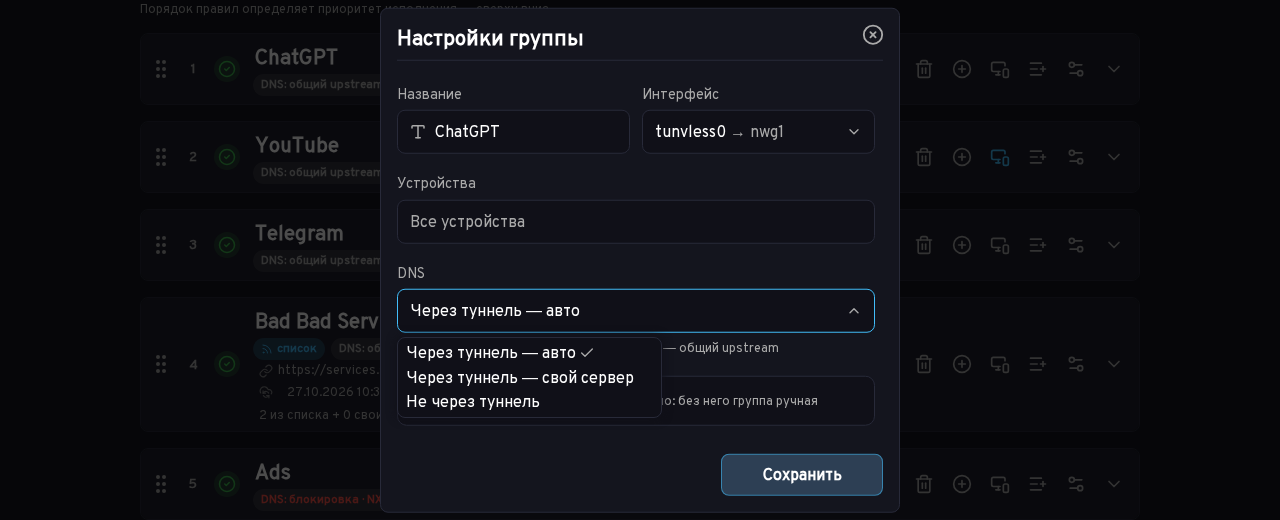
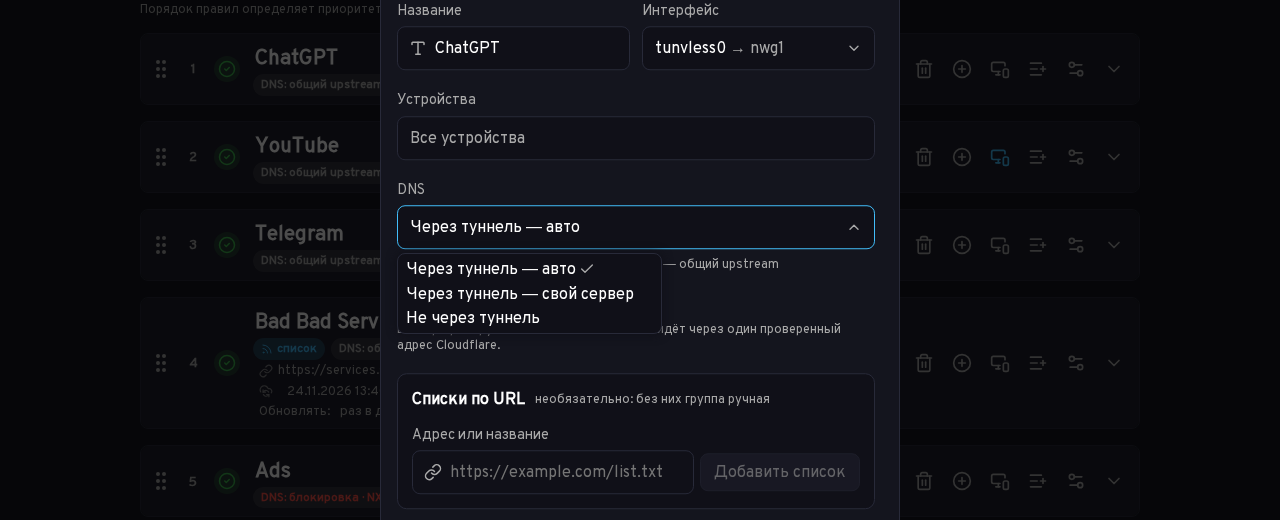
docs: several lists per group, failback and address entries

diff --git a/scripts/screens.ts b/scripts/screens.ts
@@ -180,8 +180,6 @@ const group = (page: Page, name: string) =>
   await page.keyboard.press("Escape");
   await settle(page);
 
-  await element(group(page, "Bad Bad Services"), "list-group.png", 12);
-
   const ads = group(page, "Ads");
   await ads.scrollIntoViewIfNeeded();
   await ads.locator(".block-answer").first().click();
@@ -212,13 +210,23 @@ const group = (page: Page, name: string) =>
 
   await group(page, "ChatGPT").getByRole("button", { name: "Настройки группы" }).click();
   await settle(page);
-  await element(page.locator("[role=dialog]").last(), "group-settings.png", 16);
   await page.getByRole("button", { name: "DNS", exact: true }).click();
   await settle(page);
   await shot(page, "group-dns.png", { x: 0, y: 140, width: 1280, height: 520 });
   await page.keyboard.press("Escape");
   await settle(page);
+  await page.setViewportSize({ width: 1280, height: 1100 });
+  await settle(page);
+  const sd = page.locator("[role=dialog]").last();
+  for (const u of ["https://lists.example.invalid/ads.srs", "https://lists.example.invalid/trackers.txt"]) {
+    await sd.locator("#gd-url").fill(u);
+    await sd.getByRole("button", { name: "Добавить список" }).click();
+    await settle(page);
+  }
+  await element(sd, "group-settings.png", 16);
   await page.keyboard.press("Escape");
+  await settle(page);
+  await page.setViewportSize({ width: 1280, height: 800 });
   await settle(page);
 
   await group(page, "YouTube").getByRole("button", { name: /^\d+ устройств/ }).click();
@@ -236,34 +244,37 @@ const group = (page: Page, name: string) =>
   await page.getByRole("button", { name: "Отмена" }).last().click();
   await settle(page);
 
+  await page.setViewportSize({ width: 1280, height: 1500 });
   await page.getByRole("button", { name: "Добавить группу" }).click();
   await settle(page);
   const nd = page.locator("[role=dialog]").last();
   await nd.locator("#gd-name").fill("Реклама");
-  await nd.getByRole("switch", { name: "Список по URL" }).click();
-  await settle(page);
-  await nd.locator("#gd-url").fill("https://lists.example.invalid/ads.srs");
+  for (const u of ["https://lists.example.invalid/ads.srs", "https://lists.example.invalid/trackers.txt"]) {
+    await nd.locator("#gd-url").fill(u);
+    await nd.getByRole("button", { name: "Добавить список" }).click();
+    await settle(page);
+  }
   for (let i = 0; i < 12; i++) {
-    await nd.getByRole("button", { name: "Предпросмотр" }).click();
+    await nd.getByRole("button", { name: "Предпросмотр" }).first().click();
     await settle(page, 1200);
     const text = await nd.innerText();
-    if (!text.includes("fetch failed") && !text.includes("нет ничего") && !text.includes("answered 404")) break;
+    if (!text.includes("answered 404") && !text.includes("нет ничего")) break;
   }
   await nd.getByText("Строки, не являющиеся правилами", { exact: false }).scrollIntoViewIfNeeded().catch(() => {});
   await element(nd, "list-dialog.png", 16);
   await page.keyboard.press("Escape");
   await settle(page);
+  await page.setViewportSize({ width: 1280, height: 800 });
+  await settle(page);
 
   await page.getByRole("button", { name: "Добавить группу" }).click();
   await settle(page);
   const cd = page.locator("[role=dialog]").last();
-  await cd.getByRole("switch", { name: "Список по URL" }).click();
-  await settle(page);
   await cd.locator("#gd-url").fill("youtube");
   await page.getByText("sagernet", { exact: true }).first().waitFor({ timeout: 10000 });
   await settle(page, 800);
   const cdb = (await cd.boundingBox())!;
-  const sw = (await cd.getByRole("switch", { name: "Список по URL" }).boundingBox())!;
+  const sw = (await cd.getByText("Списки по URL", { exact: true }).first().boundingBox())!;
   const lb = (await page.getByText("youtube@cn", { exact: true }).first().boundingBox())!;
   await shot(page, "list-catalog.png", { x: cdb.x, y: sw.y - 20, width: cdb.width, height: lb.y + lb.height - sw.y + 36 });
   await page.keyboard.press("Escape");
@@ -458,6 +469,38 @@ const group = (page: Page, name: string) =>
   await settle(page);
   const sb = (await sec.boundingBox())!;
   await shot(page, "settings-autolist.png", { x: 0, y: sb.y - 12, width: 1280, height: sb.height + 24 });
+  await page.context().close();
+}
+
+{
+  const page = await session();
+  await page.getByRole("button", { name: "Развернуть все" }).click();
+  await settle(page);
+  const g = group(page, "ChatGPT");
+  await g.getByRole("button", { name: "Настройки группы" }).click();
+  await settle(page);
+  const d = page.locator("[role=dialog]").last();
+  for (const u of ["https://lists.example.invalid/openai.srs", "https://lists.example.invalid/ai-services.txt"]) {
+    await d.locator("#gd-url").fill(u);
+    await d.getByRole("button", { name: "Добавить список" }).click();
+    await settle(page);
+  }
+  await d.getByRole("button", { name: "Сохранить" }).last().click();
+  await settle(page);
+  await page.getByRole("button", { name: /Сохранить изменения/ }).first().click();
+  await settle(page, 12000);
+  for (let i = 0; i < 6; i++) {
+    const retry = g.getByRole("button", { name: /Обновить список/ });
+    const n = await retry.count();
+    if ((await g.innerText()).includes("fetch failed") && n > 0) {
+      await retry.first().click();
+      await settle(page, 6000);
+    }
+  }
+  await page.mouse.move(0, 0);
+  await settle(page, 300);
+  const gb = (await g.boundingBox())!;
+  await shot(page, "list-group.png", { x: 0, y: gb.y - 12, width: 1280, height: 640 });
   await page.context().close();
 }
 

diff --git a/content/guide/lists.md b/content/guide/lists.md
@@ -5,18 +5,17 @@ weight: 2
 
 Вписывать сотни доменов руками неудобно, а готовые списки часто кто-то уже ведёт. Поэтому группа может брать правила по ссылке. firc скачивает список, разбирает его и обновляет по расписанию. Своих правил у такой группы может не быть совсем, а может быть несколько — они работают вместе со списком.
 
-У одной группы может быть **один список**. Нужно два списка — сделайте две группы.
+В группу можно добавить до **16 списков**. Каждый скачивается и обновляется отдельно, а правила всех списков работают в группе вместе с вашими. Если один список не скачался, он сохраняет последние загруженные правила и показывает свою ошибку — остальные списки группы работают как обычно.
 
 ## Как подключить список
 
 1. Откройте **Настройки группы** (или создайте новую кнопкой **Добавить группу**).
-2. Включите переключатель **Список по URL**.
-3. В поле **Адрес или название** вставьте ссылку на список (подходят только адреса `http://` и `https://`) или начните писать название — см. [Поиск готового списка](#поиск-готового-списка).
-4. Выберите, как часто обновлять: **раз в час**, **раз в 6 часов**, **раз в день**, **раз в неделю** или **вручную**.
-5. Нажмите **Предпросмотр**: firc скачает и разберёт список, ничего не сохраняя, и покажет, сколько в нём правил и каких типов.
-6. Сохраните группу, затем нажмите **Сохранить изменения** на странице.
+2. В блоке **Списки по URL** в поле **Адрес или название** вставьте ссылку на список (подходят только адреса `http://` и `https://`) или начните писать название — см. [Поиск готового списка](#поиск-готового-списка). Нажмите **Добавить список**; список из каталога добавляется сразу. Так же добавляются следующие списки.
+3. Выберите, как часто обновлять: **раз в час**, **раз в 6 часов**, **раз в день**, **раз в неделю** или **вручную**. Интервал один на всю группу и действует на все её списки.
+4. Кнопка с глазом у списка — предпросмотр: firc скачает и разберёт список, ничего не сохраняя, и покажет, сколько в нём правил и каких типов. Крестик убирает список из группы вместе с его правилами и ручными правками.
+5. Сохраните группу, затем нажмите **Сохранить изменения** на странице.
 
-![Новая группа со списком по URL и результатом предпросмотра](/img/ui/list-dialog.png)
+![Новая группа с двумя списками по URL и результатом предпросмотра](/img/ui/list-dialog.png)
 
 ## Поиск готового списка
 
@@ -67,20 +66,22 @@ example.net, example.org
 
 ## Список в группе
 
-У группы со списком под названием видны метка **список**, ссылка, время последнего обновления, интервал (**Обновлять:**) и счётчик вида «2 из списка + 0 своих».
+У группы со списками под названием видна метка с числом списков, а у каждого списка — его имя файла, ссылка, время последнего обновления и счётчик правил. Ниже — общий интервал (**Обновлять:**) и число своих правил.
 
-![Группа со списком: свои правила и правила из списка](/img/ui/list-group.png)
+![Группа с двумя списками: свои правила и правила из списка](/img/ui/list-group.png)
 
 Развёрнутая группа делится на два блока:
 
 - **Свои правила** — правила, которые вы добавили сами. Они проверяются вместе со списком и относятся к той же группе.
-- **Из списка** — то, что пришло по ссылке. Большой список листается и ищется постранично. Отдельное правило списка можно выключить или сменить ему тип. firc запомнит такую правку и после обновления списка, а у правила появится метка **изменено**; счётчик «изменено вручную» показывает, сколько их.
+- **Из списка …** — по блоку на каждый список, с его именем. То, что пришло по ссылке. Большой список листается и ищется постранично. Отдельное правило списка можно выключить или сменить ему тип. firc запомнит такую правку и после обновления списка, а у правила появится метка **изменено**; счётчик «изменено вручную» показывает, сколько их.
 
 ## Обновление
 
 - **По расписанию** — с интервалом, выбранным в **Обновлять:**. Интервал меняется прямо в строке группы.
-- **Вручную** — кнопка **Обновить список** в строке группы. Если в группе есть несохранённые правки правил, firc предупредит, что они пропадут. У новой, ещё не сохранённой группы кнопка неактивна: сначала сохраните группу.
+- **Вручную** — кнопка обновления у каждого списка обновляет его одного, **Обновить все списки** в строке группы — все сразу. Если в группе есть несохранённые правки правил, firc предупредит, что они пропадут. У новой, ещё не сохранённой группы кнопка неактивна: сначала сохраните группу.
 
 Правила списка firc держит в памяти и не записывает в файл настроек, поэтому после перезапуска демона список скачивается заново. Пункт **вручную** в расписании так и подписан: один раз после запуска демона, дальше — только по кнопке.
 
-Если скачать или разобрать список не удалось, причина видна у списка и в [журнале](../journal/). Если список ни разу не скачался с запуска демона (например, роутер стартовал раньше, чем поднялся интернет), firc повторяет сам: через 1 секунду, дальше всё реже, до раза в минуту.
+Если скачать или разобрать список не удалось, причина видна у списка и в [журнале](../journal/). Если список ни разу не скачался с запуска демона (например, роутер стартовал раньше, чем поднялся интернет), firc повторяет сам: через 1 минуту, потом через 2, 4 и так далее, до раза в час.
+
+При обновлении с версии до 0.8.4 список из старого `groups.yaml` переносится в новый формат сам. Из экспорта настроек старой версии списки не импортируются: окно импорта покажет их адреса, чтобы их можно было добавить заново.

diff --git a/content/guide/groups.md b/content/guide/groups.md
@@ -13,7 +13,7 @@ weight: 1
 
 - **Номер и ручка.** Номер — место группы в списке, за область "ручка" группу можно перетащить выше или ниже (более подробно в разделе [Порядок групп](#порядок-групп)). Клик по номеру выделяет группу, для выделенных групп появляется панель массовых действий (см. [Несколько групп сразу](#несколько-групп-сразу)).
 - **Значок состояния.** Зелёная галочка — **Работает**: правила группы записаны в ядро роутера, трафик идёт через её интерфейс. Если навести на значок, firc объяснит, что не так если статус не зеленая галочка, например **Ждёт интерфейс** или **Туннель без узла**.
-- **Название и метки.** Метка **DNS** показывает, где firc узнаёт адреса сайтов группы (подробно — в разделе [DNS группы](#dns-группы)). У группы со списком по ссылке есть метка **список**, адрес списка и время обновления.
+- **Название и метки.** Метка **DNS** показывает, где firc узнаёт адреса сайтов группы (подробно — в разделе [DNS группы](#dns-группы)). У группы со списками по ссылке есть метка с числом списков, а у каждого списка — адрес и время обновления.
 - **Интерфейс.** Куда идёт трафик группы. Здесь же собирается список из нескольких интерфейсов — основного и резервных, см. [Интерфейсы и резервирование](../interfaces/).
 - **Переключатель.** Выключенная группа как будто не существует: её сайты открываются обычным путём, без firc.
 - **Кнопки:** **Удалить группу**, **Добавить правило**, выбор устройств (**Все устройства** или их число, см. [Устройства](../devices/)), **Импортировать список**, **Настройки группы** и стрелка, которая разворачивает правила.
@@ -32,7 +32,8 @@ weight: 1
 - **Интерфейс** — куда пойдёт трафик. Проверьте это поле: новая группа создается с пунктом **Блокировать**. Если группа нужна, чтобы блокировать сайты, выберите **Блокировать по DNS** (см. [Блокировка](../interfaces/#блокировка)).
 - **Устройства** — для кого работает группа; по умолчанию **Все устройства**.
 - **DNS** — через что узнавать адреса сайтов группы.
-- **Список по URL** — необязательно, без списка группа "ручная", т.е. домены необходимо добавить самостоятельно. Готовый список можно найти по названию прямо в этом поле. Про списки — на странице [Списки](../lists/).
+- **Списки по URL** — необязательно, до 16 ссылок; без списков группа «ручная», т.е. домены нужно добавить самостоятельно. Готовый список можно найти по названию прямо в поле. Про списки — на странице [Списки](../lists/).
+- **Добавить: в начало / в конец** — куда встанет новая группа. Порядок групп — это их приоритет: группы выше проверяются первыми. По умолчанию — в конец; браузер запоминает последний выбор. При редактировании группы этого переключателя нет.
 
 Окно **Настройки группы** у существующей группы такое же.
 

diff --git a/content/limits/_index.md b/content/limits/_index.md
@@ -47,7 +47,7 @@ firc узнаёт сайт по DNS-запросу к роутеру. Мимо f
 
 | Что | Предел | Что будет сверх него |
 |---|---|---|
-| Списков у группы | 1 | нужно два — сделайте две группы |
+| Списков у группы | 16 | добавить семнадцатый нельзя |
 | Размер скачанного списка | 8 МБ | «the list is too big», список не загружается |
 | Rule-set `.srs` после распаковки | 16 МБ | список не загружается |
 | Перенаправлений при скачивании | 5 | «too many redirects» |
@@ -55,21 +55,22 @@ firc узнаёт сайт по DNS-запросу к роутеру. Мимо f
 | Предпросмотров одновременно | 2 | просьба подождать |
 
 - **Число правил в списке** не ограничено, но большой список стоит памяти и времени: список в 313 тысяч правил занимает около 21 МБ, а поиск по нему — около полсекунды на каждое нажатие клавиши.
+- В группе до 16 списков; лимит размера (8 МБ) действует на каждый список отдельно.
 - **Из rule-set** берутся только правила по адресу назначения. Правила с условиями по источнику, процессу и подобному пропускаются целиком (см. [Списки](../guide/lists/#какие-форматы-понимает-firc)).
-- **Список, ни разу не скачанный** с запуска, firc повторяет сам: через 1 секунду, потом всё реже, до раза в минуту.
+- **Список, ни разу не скачанный** с запуска, firc повторяет сам: через 1 минуту, потом через 2, 4 и так далее, до раза в час.
 
 ## Пул адресов
 
 | Что | Предел | Что будет сверх него |
 |---|---|---|
-| Доменов в пуле (**Доменов в пуле, максимум**) | 65 536 по умолчанию | сайт получает blackhole-адрес и не открывается, но и не уходит мимо группы |
+| Записей адресов в пуле (**Записей адресов в пуле, максимум**) | 65 536 по умолчанию | сайт получает blackhole-адрес и не открывается, но и не уходит мимо группы |
 | Кусок пула на группу | 254 адреса IPv4 (`/24`) | группа берёт следующий кусок |
 | Кусков в пуле `198.18.0.0/15` | 511 | как при переполнении: blackhole-адрес |
 
 - Домен, который есть в двух группах для разных устройств, занимает в пуле два места.
-- У сайта группы для устройства один настоящий адрес на семейство: если у домена несколько адресов IPv4, устройство пойдёт на один из них.
+- Если у домена несколько адресов, firc выдаёт свой адрес на каждый из них, до 8 на домен: приложение может перейти на другой адрес сервера, если первый не отвечает. Каждый из них занимает запись в пуле.
 - Адреса пула нельзя использовать на роутере ни для чего другого, пока работает firc.
-- Каждый выданный адрес — одно правило в ядре. На слабом `mipsel` при 65 тысячах доменов это добавляет около 25 мс к первому пакету нового соединения.
+- Каждый выданный адрес — одно правило в ядре. На слабом `mipsel` при 65 тысячах записей это добавляет около 25 мс к первому пакету нового соединения.
 - Первый ответ на новое имя может ждать до 0,8 секунды, пока firc записывает правило в ядро.
 
 ## DNS

diff --git a/content/guide/tunnels.md b/content/guide/tunnels.md
@@ -158,6 +158,7 @@ Hysteria первой версии не поддерживается.
 - **Распределение** — как новые соединения делятся между активными узлами: **по соединению**, **по сайту** или **по сайту и устройству**. Имеет смысл, когда активных узлов больше одного. Это балансировщик нагрузки.
 - **Проверка узлов** — как часто проверять, что активный узел отвечает (по умолчанию 60 секунд).
 - **Тишина** — соединение, которое молчит столько секунд, считается оборванным, и узел проверяется сразу (по умолчанию 20).
+- **Возвращаться на первые узлы** — когда узел выше по списку снова отвечает, новые соединения идут через него (по умолчанию включено). Уже открытые соединения доживают на прежнем узле. Узел, который упал вскоре после возврата на него, какое-то время не выбирается снова, чтобы туннель не прыгал туда-сюда. Кнопка **Проверить узлы** возвращает на первые узлы сразу.
 
 Если активный узел перестал отвечать, его место занимает следующий из резерва. Если не отвечает ни один, туннель повторяет попытки сам, а группы на этом туннеле стоят с подсказкой **Туннель … без узла**: их сайты не открываются, пока узел не ответит, или группа переходит на резервный интерфейс, если он у неё есть (см. [Интерфейсы и резервирование](../interfaces/)).
 
